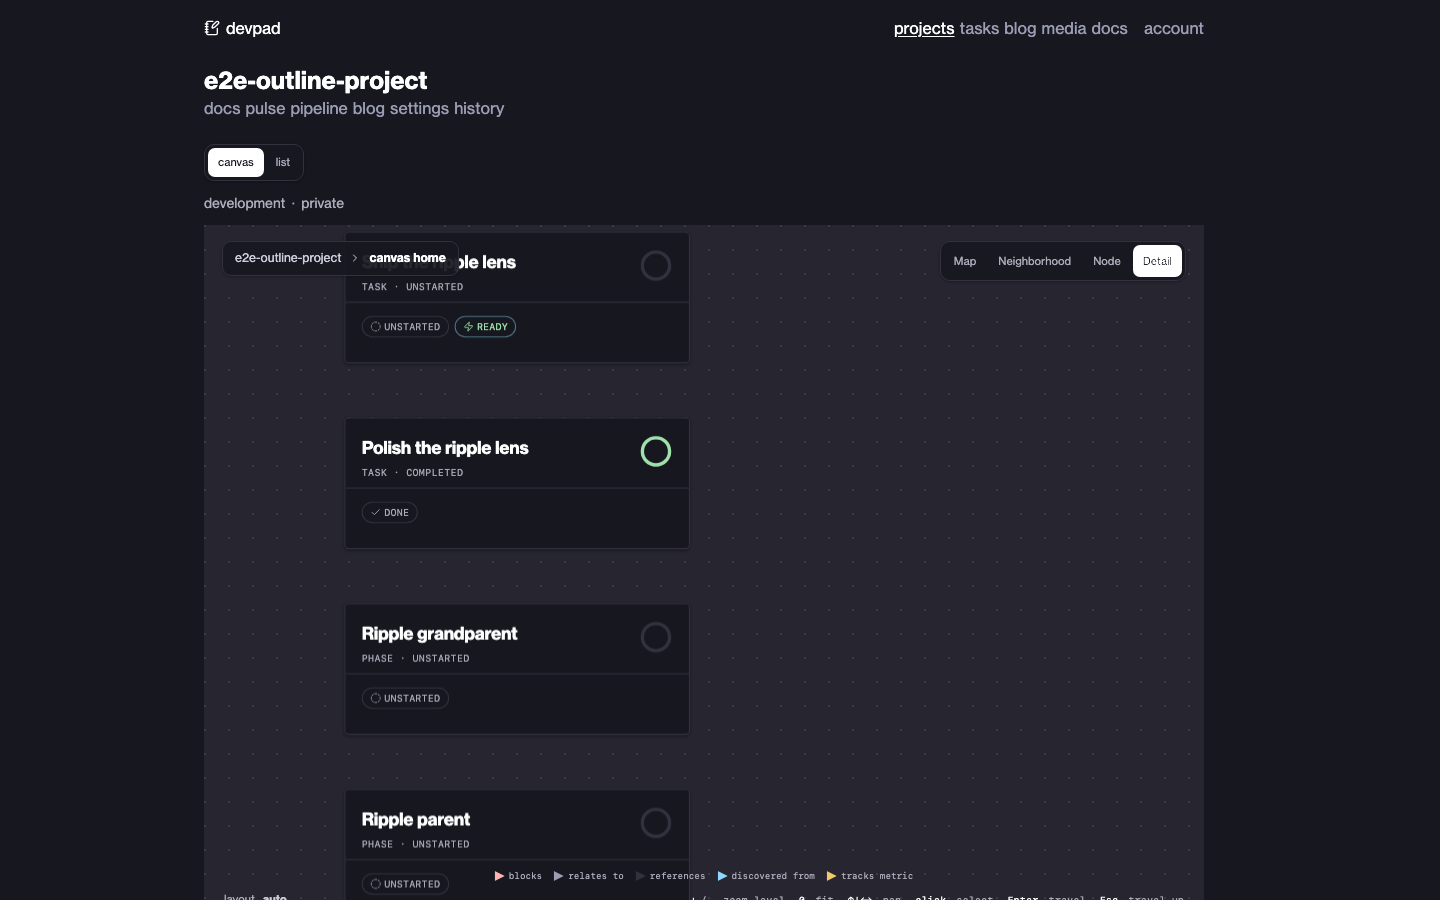
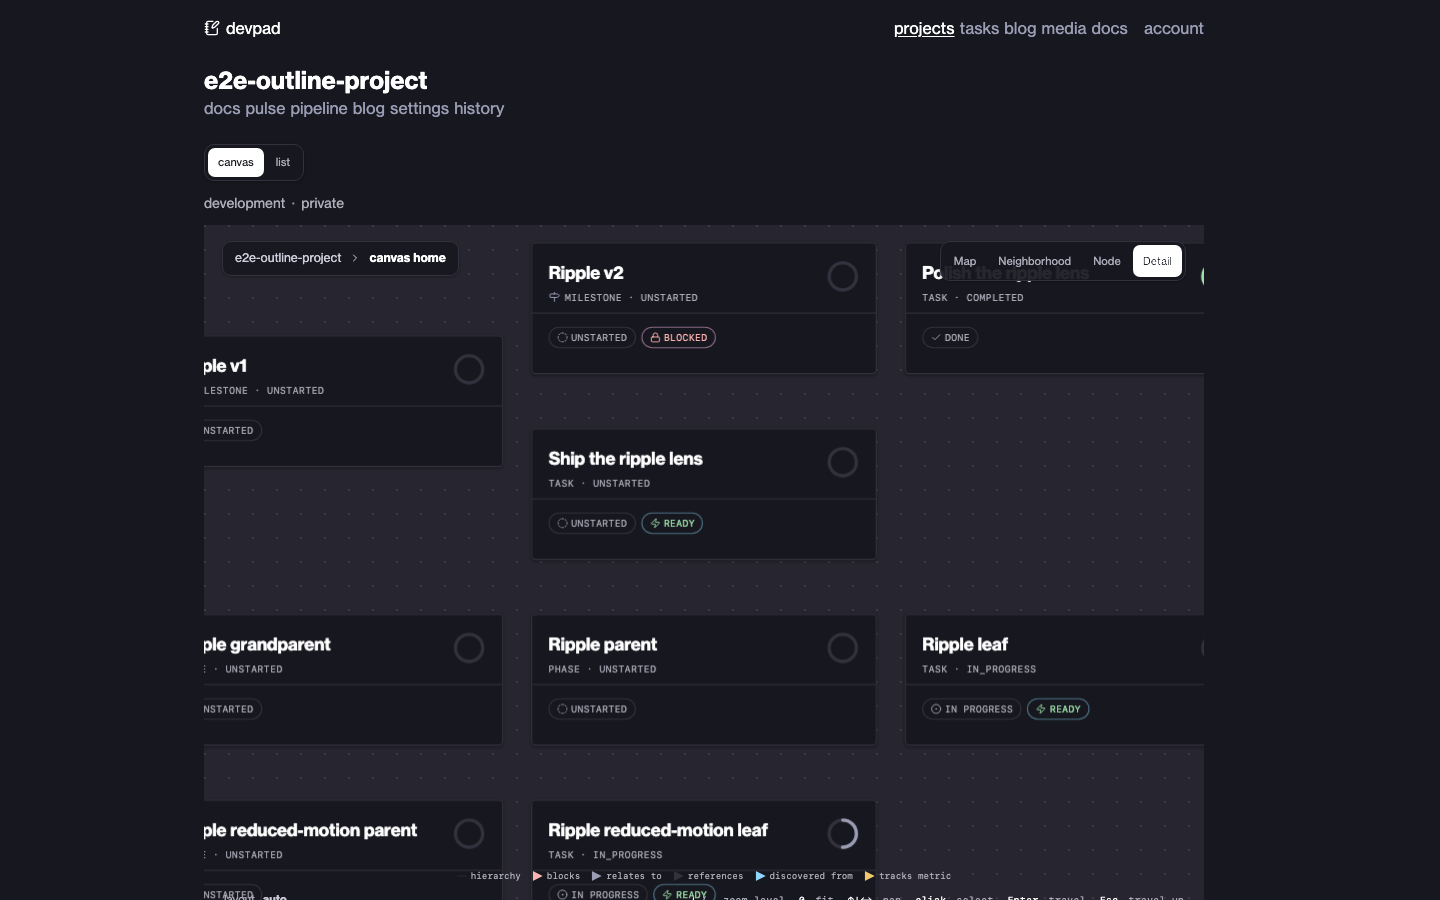
test: e2e coverage for hierarchy edges + fit-to-forest map level
motivation:
---
- prove the two fixes against a realistic shape: a deep goal/milestone/task
  hierarchy actually renders hierarchy edges, and fit() at map level frames
  every node — not just that the unit-level math works

approach:
---
- new canvas-core.spec.ts case against the existing ~500-node synthetic
  fixture (already has hierarchy depth well past 3 via its random-tree
  generator): asserts data-edge-kind="hierarchy" count > 0 at map level, then
  presses "0" and asserts every node's bounding box lands inside the
  viewport with zero culling
- the "culls the offscreen majority" test moved from `map` to `detail` —
  map is now BY DESIGN the "everything visible" tier, so it can no longer
  be the level that demonstrates culling; detail's fixed, larger-than-fit
  scale is
- that same culling test's total/visible/hidden read is now one atomic
  page.$$eval poll on a stable two-consecutive-reads condition rather than
  three separate round-trips — the previous split reads could straddle an
  in-flight spatial-index recompute and flake
- the wheel-snap-through-all-4-levels test derives each step's deltaY from
  the LIVE scale read off .canvas-world's style rather than the old
  hardcoded "0.58 -> 0.82" comment, since map's scale is fixture/viewport
  dependent now
- re-captured canvas-p2-*-{light,dark}.png (all 4 levels) and added
  canvas-p4-home-{light,dark}.png (project home at map level) — every node
[…]

diff --git a/tests/e2e/canvas-core.spec.ts b/tests/e2e/canvas-core.spec.ts
@@ -2,7 +2,7 @@ import { existsSync, mkdirSync } from "node:fs";
 import { dirname, resolve } from "node:path";
 import { fileURLToPath } from "node:url";
 import { expect, test, type BrowserContext, type Locator, type Page } from "@playwright/test";
-import { CAMERA_LEVELS, type CameraLevel } from "../../apps/main/src/components/solid/canvas/camera";
+import { CAMERA_LEVELS, LEVEL_SCALE, type CameraLevel } from "../../apps/main/src/components/solid/canvas/camera";
 import { E2E_CANVAS_PROJECT_ID } from "./fixtures/canvas-ids";
 import { E2E_OUTLINE_PROJECT_ID, E2E_SESSION_ID } from "./fixtures/outline-ids";
 
@@ -46,6 +46,16 @@ const openCanvas = async (page: Page, project_id: string): Promise<Locator> => {
 // swap landed.
 const anyNodeAtLevel = (page: Page, level: CameraLevel) =>
 	page.locator(`[data-canvas-node][data-lod="${level}"]:visible`).first();
+
+/** `map`'s scale is now relative — "fit the whole forest" — so it isn't a
+ * fixed constant per fixture. Read the live scale straight off `.canvas-world`'s
+ * inline transform rather than assuming `LEVEL_SCALE.map`. */
+const readWorldScale = async (page: Page): Promise<number> => {
+	const transform = await page.locator(".canvas-world").getAttribute("style");
+	const match = transform?.match(/scale\(([\d.]+)\)/);
+	if (!match?.[1]) throw new Error("could not read .canvas-world scale from style attribute");
+	return Number(match[1]);
+};
 
 /**
  * Same cold-hydration retry pattern as `outline-zoom.spec.ts`'s
@@ -105,25 +115,28 @@ test.describe("canvas home — P2.5 verification", () => {
 			await inject_test_user(context);
 			const viewport = await openCanvas(page, E2E_OUTLINE_PROJECT_ID);
 
-			// Pin to a known starting scale (map, 0.58) via the HUD before driving
-			// the wheel — `fit()`'s initial scale otherwise depends on viewport size.
+			// Pin to a known starting scale (map — dynamic "fit the whole forest"
+			// scale for this fixture) via the HUD before driving the wheel —
+			// `fit()`'s initial scale otherwise depends on viewport size.
 			await clickLevel(page, "map");
 
 			const box = await viewport.boundingBox();
 			if (!box) throw new Error("canvas viewport has no bounding box");
 			await page.mouse.move(box.x + box.width / 2, box.y + box.height / 2);
 
-			// Each step's deltaY lands the wheel's `on_wheel` math (delta = -deltaY *
-			// 0.0012) on the NEXT level's exact target scale, so `nearest_level`'s
-			// settle picks it deterministically rather than approximately.
-			const steps: Array<{ readonly deltaY: number; readonly level: CameraLevel }> = [
-				{ deltaY: -200, level: "neighborhood" }, // 0.58 -> 0.82
-				{ deltaY: -150, level: "node" }, // 0.82 -> 1.00
-				{ deltaY: -67, level: "detail" }, // 1.00 -> 1.08
-			];
-			for (const step of steps) {
-				await page.mouse.wheel(0, step.deltaY);
-				await expect(anyNodeAtLevel(page, step.level)).toBeVisible({ timeout: 5000 });
+			// `map`'s scale is now relative (fit-to-forest), not the fixed 0.58 of
+			// old — read it live and derive each step's deltaY off the WHEEL_SENSITIVITY
+			// math (`delta = -deltaY * 0.0012`) so `nearest_level`'s settle lands on
+			// the next level's exact target scale deterministically.
+			const WHEEL_SENSITIVITY = 0.0012;
+			let current_scale = await readWorldScale(page);
+			const targets: readonly CameraLevel[] = ["neighborhood", "node", "detail"];
+			for (const level of targets) {
+				const target_scale = LEVEL_SCALE[level];
+				const deltaY = -(target_scale - current_scale) / WHEEL_SENSITIVITY;
+				await page.mouse.wheel(0, deltaY);
+				await expect(anyNodeAtLevel(page, level)).toBeVisible({ timeout: 5000 });
+				current_scale = target_scale;
 			}
 
 			// A big reverse scroll snaps straight back down to the min level.
@@ -137,27 +150,82 @@ test.describe("canvas home — P2.5 verification", () => {
 			await inject_test_user(context);
 			await page.setViewportSize({ width: 900, height: 600 });
 			await openCanvas(page, E2E_CANVAS_PROJECT_ID);
-			await clickLevel(page, "map");
+			// `map` is now the fit-the-whole-forest tier by design (everything
+			// visible is the point) — culling only shows up at a tier with a fixed,
+			// larger-than-fit absolute scale, so this test zooms to `detail`.
+			await clickLevel(page, "detail");
 
 			const total = await page.locator("[data-canvas-node]").count();
 			expect(total).toBe(500);
 
-			// The visible count only settles once the `ResizeObserver` has
-			// measured the real viewport and `visibleIds` has recomputed off it
-			// (before that, `visibleIds()` is `null` — "render everything") — poll
-			// rather than assert immediately.
+			// Read total/visible/hidden ATOMICALLY in one evaluate — the culling
+			// recompute (ResizeObserver settle + spatial-index requery) can keep
+			// shifting counts across separate round-trips, so two split reads can
+			// race each other. Poll until two consecutive snapshots agree — not
+			// just "below half" — before asserting the invariant.
+			const counts = () =>
+				page.$$eval("[data-canvas-node]", (els) => {
+					const hidden = els.filter((el) => (el as HTMLElement).style.display === "none").length;
+					return { total: els.length, hidden, visible: els.length - hidden };
+				});
+
+			let previous = await counts();
 			await expect
-				.poll(async () => page.locator("[data-canvas-node]:visible").count(), { timeout: 5000 })
-				.toBeLessThan(total / 2);
+				.poll(
+					async () => {
+						const current = await counts();
+						const stable = current.visible < total / 2 && current.visible === previous.visible;
+						previous = current;
+						return stable;
+					},
+					{ timeout: 5000 },
+				)
+				.toBe(true);
 
+			const final = await counts();
+			expect(final.visible).toBeGreaterThan(0);
+			expect(final.hidden).toBe(final.total - final.visible);
+		});
+	});
+
+	test.describe("hierarchy edges + fit-to-forest map level", () => {
+		test("a deep project renders hierarchy edges and fit() frames every node within the viewport at map level", async ({
+			page,
+			context,
+		}) => {
+			await inject_test_user(context);
+			await page.setViewportSize({ width: 1280, height: 800 });
+			const viewport = await openCanvas(page, E2E_CANVAS_PROJECT_ID);
+			await viewport.focus();
+
+			await clickLevel(page, "map");
+			const hierarchy_edge_count = await page.locator('[data-edge-kind="hierarchy"]').count();
+			expect(hierarchy_edge_count).toBeGreaterThan(0);
+
+			// `0` re-fits (same tier, but re-centers/re-scales to the CURRENT
+			// content bounds) — every node should land inside the viewport with no
+			// culling once framed at the fit-to-forest scale.
+			await viewport.press("0");
+			await expect(page.locator(".canvas-viewport-moving")).toHaveCount(0, { timeout: 5000 });
+
+			const total = await page.locator("[data-canvas-node]").count();
 			const visible_count = await page.locator("[data-canvas-node]:visible").count();
-			expect(visible_count).toBeGreaterThan(0);
+			expect(visible_count).toBe(total);
 
-			const hidden_count = await page.$$eval(
-				"[data-canvas-node]",
-				(els) => els.filter((el) => (el as HTMLElement).style.display === "none").length,
+			const box = await viewport.boundingBox();
+			if (!box) throw new Error("canvas viewport has no bounding box");
+			const node_boxes = await page.locator("[data-canvas-node]:visible").evaluateAll((els) =>
+				els.map((el) => {
+					const rect = el.getBoundingClientRect();
+					return { x: rect.x, y: rect.y, width: rect.width, height: rect.height };
+				}),
 			);
-			expect(hidden_count).toBe(total - visible_count);
+			for (const node_box of node_boxes) {
+				expect(node_box.x + node_box.width).toBeGreaterThanOrEqual(box.x);
+				expect(node_box.x).toBeLessThanOrEqual(box.x + box.width);
+				expect(node_box.y + node_box.height).toBeGreaterThanOrEqual(box.y);
+				expect(node_box.y).toBeLessThanOrEqual(box.y + box.height);
+			}
 		});
 	});
 
